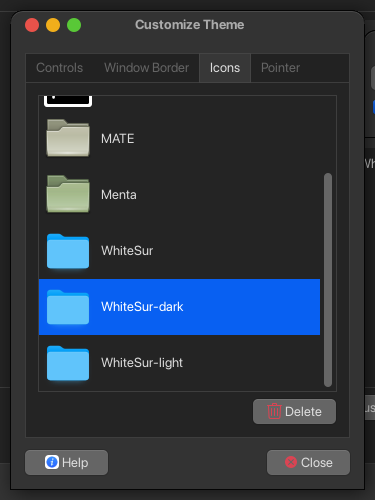
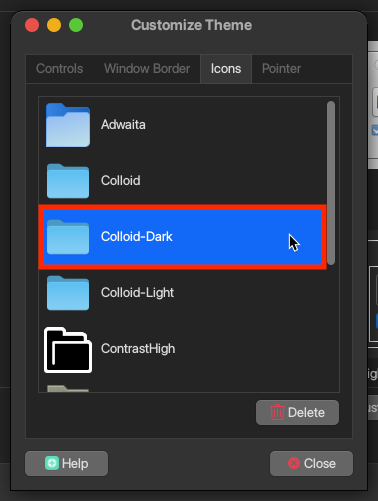
New

diff --git a/public/blog/2025/mate-on-freebsd-macos-like-setup-guide-font-rendering-ui-tweaks-and-settings/index.html b/public/blog/2025/mate-on-freebsd-macos-like-setup-guide-font-rendering-ui-tweaks-and-settings/index.html
@@ -96,6 +96,8 @@
 </video> 
 <p>Replaced MATE’s UI fonts to <a href="https://github.com/sahibjotsaggu/San-Francisco-Pro-Fonts">SF Pro Display</a>. Put <strong>SF Pro Display, Regular</strong> and <strong>SF Pro Display, Bold</strong> to ~/.fonts folder and set it up in MATE&rsquo;s settings. Add <a href="https://github.com/supercomputra/SF-Mono-Font">SF Mono</a>, for Fixed width fonts too:</p>
 <p><img src="./mate-ui-font-to-match-macos-on-freebsd.png" alt=""></p>
+<p>If you&rsquo;re using dark appearance, set semibold version of SF Pro Display, becase in <a href="https://mastodon.social/@alex_deplov/114573131846455250" target="_blank">macOS Apple uses bolder fonts for dark appearances</a>:</p>
+<p><img src="./mate-ui-font-to-match-macos-on-freebsd-dark.png" alt=""></p>
 <p>Font <a href="https://freetype.org/freetype2/docs/reference/ft2-properties.html#no-stem-darkening">rendering</a> needs to be tweaked. In ~/.profile add:</p>
 <div class="highlight"><pre tabindex="0" style="color:#abb2bf;background-color:#282c34;-moz-tab-size:4;-o-tab-size:4;tab-size:4;"><code class="language-sh" data-lang="sh"><span style="display:flex;"><span><span style="color:#e5c07b">export</span> <span style="color:#e06c75">FREETYPE_PROPERTIES</span><span style="color:#56b6c2">=</span><span style="color:#98c379">&#34;cff:no-stem-darkening=0.0 autofitter:no-stem-darkening=0.0&#34;</span>
 </span></span></code></pre></div><p>Set Smoothing to <strong>Grayscale</strong> and <strong>Hinting to None</strong> (I also set font size to be 10 and DPI to 95):</p>
@@ -105,6 +107,8 @@
 <p><a href="./macos-vs-mate-on-freebsd-fonts-to-compare-2.jpg"><img src="./macos-vs-mate-on-freebsd-fonts-to-compare-2.jpg" alt=""></a></p>
 <p>In the Appearance settings hide icons from menu and buttons:</p>
 <p><img src="./mate-interface-settings-freebsd.png" alt=""></p>
+<p>Optional change Firefox fonts in the settings, for Serifs use <a href="https://github.com/yell0wsuit/New-York-fonts" target="_blank">Apple&rsquo;s New York Medium font</a>:</p>
+<p><img src="./freebsd-desktop-to-match-macos-firefox-fonts.png" alt=""></p>
 <hr>
 <h2 id="keyboard_and_mouse">Change Keyboard Shortcuts</h2>
 <p><img src="./mate-keyboard-shortcuts-freebsd-1.png" alt="">
@@ -130,7 +134,7 @@
 </span></span></code></pre></div><hr>
 <h2 id="tearing">Turn on TearFree</h2>
 <p>Check to see if it supports it. It should show &ldquo;TearFree&rdquo;: &ldquo;auto, on, off:</p>
-<div class="highlight"><pre tabindex="0" style="color:#abb2bf;background-color:#282c34;-moz-tab-size:4;-o-tab-size:4;tab-size:4;"><code class="language-sh" data-lang="sh"><span style="display:flex;"><span>xrandr —props
+<div class="highlight"><pre tabindex="0" style="color:#abb2bf;background-color:#282c34;-moz-tab-size:4;-o-tab-size:4;tab-size:4;"><code class="language-sh" data-lang="sh"><span style="display:flex;"><span>xrandr --props
 </span></span></code></pre></div><p>In /usr/local/etc/X11/xorg.conf.d/10-amdgpu.conf:</p>
 <div class="highlight"><pre tabindex="0" style="color:#abb2bf;background-color:#282c34;-moz-tab-size:4;-o-tab-size:4;tab-size:4;"><code class="language-sh" data-lang="sh"><span style="display:flex;"><span>Section <span style="color:#98c379">&#34;OutputClass&#34;</span>
 </span></span><span style="display:flex;"><span>    Identifier <span style="color:#98c379">&#34;AMDgpu&#34;</span>
@@ -139,20 +143,19 @@
 </span></span><span style="display:flex;"><span>    Option <span style="color:#98c379">&#34;TearFree&#34;</span> <span style="color:#98c379">&#34;true&#34;</span>
 </span></span><span style="display:flex;"><span>EndSection
 </span></span></code></pre></div><p>Then, use this command again to see if TearFree is enabled. It should show TearFree: On:</p>
-<div class="highlight"><pre tabindex="0" style="color:#abb2bf;background-color:#282c34;-moz-tab-size:4;-o-tab-size:4;tab-size:4;"><code class="language-sh" data-lang="sh"><span style="display:flex;"><span>xrandr —props
+<div class="highlight"><pre tabindex="0" style="color:#abb2bf;background-color:#282c34;-moz-tab-size:4;-o-tab-size:4;tab-size:4;"><code class="language-sh" data-lang="sh"><span style="display:flex;"><span>xrandr --props
 </span></span></code></pre></div><hr>
 <h2 id="wallpapers">Wallpapers</h2>
 <p>My favorite wallpapers are from <a href="https://512pixels.net/projects/default-mac-wallpapers-in-5k/">macOS Sequoia and macOS Ventura</a>.</p>
 <p><a href="https://512pixels.net/projects/default-mac-wallpapers-in-5k/"><img src="./freebsd-desktop-macos-wallpapers-in-mate.png" alt=""></a></p>
 <hr>
 <h2 id="mate_theme">MATE’s Theme & Icons & Cursors</h2>
-<p>Download <a href="https://www.pling.com/p/1403328/" target="_blank">WhiteSur-Dark.tar.xz</a> file and unpack it in the ~/.themes, then select in Appearance Preferences:</p>
+<p>Download <a href="https://www.mate-look.org/p/1403328" target="_blank">WhiteSur-Dark.tar.xz</a> file and unpack it in the ~/.themes, then select in Appearance Preferences:</p>
 <p><img src="./freebsd-desktop-to-match-macos-mate-theme.png" alt=""></p>
-<p>Download the <a href="https://www.pling.com/p/1355701/" target="_blank">01-WhiteSur.tar.xz</a> file and unpack it in the ~/.icons folder. Important note: Rename the unpacked folder to <strong>WhiteSur-Dark</strong> with a capital &ldquo;D&rdquo; for &ldquo;Dark.&rdquo; Otherwise, the WhiteSur-Dark theme will not recognize it.</p>
+<p>Download icons <a href="https://www.opendesktop.org/p/1661983/" target="_blank">Colloid-Dark</a> file and unpack it in the ~/.icons folder:</p>
 <p><img src="./freebsd-desktop-to-match-macos-mate-theme-icons.png" alt=""></p>
-<p>Unpack <a href="https://www.pling.com/p/1355701/" target="_blank">cursors</a> to the ~/.icons.</p>
-<h2 id="dock">Dock</h2>
-<p>Will be added soon.</p>
+<p>Unpack cursors <a href="https://www.pling.com/p/1408466" target="_blank">macOS.tar.xz</a> to the ~/.icons:</p>
+<p><img src="./freebsd-desktop-to-match-macos-mate-theme-cursors.png" alt=""></p>
 <hr>
 <h2 id="file-manager">File Manager</h2>
 <p>I changed the default file manager from Caja to <a href="https://www.freshports.org/x11-fm/thunar/" target="_blank">Thunar</a> because Thunar is visually cleaner and allows you to right-click on categories in the sidebar to change them.</p>
@@ -163,9 +166,12 @@
 </video> 
 <p>Set Thunar in Mate Settings &gt; Prefrered Applications &gt; System &gt; File Manager:</p>
 <p><img src="./mate-thunar-file-manager.png" alt=""></p>
+<p>Change Thunar shortcuts to macOS-like:</p>
+<p><img src="./thunar-macos-shortcuts-on-freebsd.png" alt=""></p>
 <hr>
-<h2 id="dock-1">Dock</h2>
-<p>I&rsquo;m using <a href="https://www.freshports.org/x11/plank/" target="_blank">x11/plank</a> with GTK+ theme:</p>
+<h2 id="dock">Dock</h2>
+<div class="highlight"><pre tabindex="0" style="color:#abb2bf;background-color:#282c34;-moz-tab-size:4;-o-tab-size:4;tab-size:4;"><code class="language-sh" data-lang="sh"><span style="display:flex;"><span>pkg install -y plank 
+</span></span></code></pre></div><p>I&rsquo;m using <a href="https://www.freshports.org/x11/plank/" target="_blank">x11/plank</a> with GTK+ theme:</p>
 <p><a href="./plank-freebsd-dock-1.png"><img src="./plank-freebsd-dock-1.png" alt=""></a>
 <a href="./plank-freebsd-dock-2.png"><img src="./plank-freebsd-dock-2.png" alt=""></a>
 <a href="./plank-freebsd-dock-3.png"><img src="./plank-freebsd-dock-3.png" alt=""></a></p>

diff --git a/content/blog/2025/mate-on-freebsd-macos-like-setup-guide-font-rendering-ui-tweaks-and-settings.md b/content/blog/2025/mate-on-freebsd-macos-like-setup-guide-font-rendering-ui-tweaks-and-settings.md
@@ -51,6 +51,11 @@ Replaced MATE’s UI fonts to <a href="https://github.com/sahibjotsaggu/San-Fran
 
 ![](./mate-ui-font-to-match-macos-on-freebsd.png)
 
+If you're using dark appearance, set semibold version of SF Pro Display, becase in <a href="https://mastodon.social/@alex_deplov/114573131846455250" target="_blank">macOS Apple uses bolder fonts for dark appearances</a>: 
+
+![](./mate-ui-font-to-match-macos-on-freebsd-dark.png)
+
+
 Font <a href="https://freetype.org/freetype2/docs/reference/ft2-properties.html#no-stem-darkening">rendering</a> needs to be tweaked. In ~/.profile add:
 
 ```sh
@@ -70,6 +75,10 @@ Fonts in macOS (left) vs. MATE (right). You may notice that fonts in macOS appea
 In the Appearance settings hide icons from menu and buttons:
 
 ![](./mate-interface-settings-freebsd.png)
+
+Optional change Firefox fonts in the settings, for Serifs use <a href="https://github.com/yell0wsuit/New-York-fonts" target="_blank">Apple's New York Medium font</a>:
+
+![](./freebsd-desktop-to-match-macos-firefox-fonts.png)
 
 
 ---
@@ -121,7 +130,7 @@ kld_list="amdgpu"
 Check to see if it supports it. It should show "TearFree": "auto, on, off:
 
 ```sh
-xrandr —props
+xrandr --props
 ```
 
 In /usr/local/etc/X11/xorg.conf.d/10-amdgpu.conf:
@@ -138,7 +147,7 @@ EndSection
 Then, use this command again to see if TearFree is enabled. It should show TearFree: On:
 
 ```sh
-xrandr —props
+xrandr --props
 ```
 
 
@@ -156,19 +165,17 @@ My favorite wallpapers are from <a href="https://512pixels.net/projects/default-
 
 <h2 id="mate_theme">MATE’s Theme & Icons & Cursors</h2>
 
-Download <a href="https://www.pling.com/p/1403328/" target="_blank">WhiteSur-Dark.tar.xz</a> file and unpack it in the ~/.themes, then select in Appearance Preferences:
+Download <a href="https://www.mate-look.org/p/1403328" target="_blank">WhiteSur-Dark.tar.xz</a> file and unpack it in the ~/.themes, then select in Appearance Preferences:
 
 ![](./freebsd-desktop-to-match-macos-mate-theme.png)
 
-Download the <a href="https://www.pling.com/p/1355701/" target="_blank">01-WhiteSur.tar.xz</a> file and unpack it in the ~/.icons folder. Important note: Rename the unpacked folder to **WhiteSur-Dark** with a capital "D" for "Dark." Otherwise, the WhiteSur-Dark theme will not recognize it.
+Download icons <a href="https://www.opendesktop.org/p/1661983/" target="_blank">Colloid-Dark</a> file and unpack it in the ~/.icons folder:
 
 ![](./freebsd-desktop-to-match-macos-mate-theme-icons.png)
 
-Unpack <a href="https://www.pling.com/p/1355701/" target="_blank">cursors</a> to the ~/.icons.
+Unpack cursors <a href="https://www.pling.com/p/1408466" target="_blank">macOS.tar.xz</a> to the ~/.icons:
 
-## Dock
-
-Will be added soon.
+![](./freebsd-desktop-to-match-macos-mate-theme-cursors.png)
 
 
 ---
@@ -188,9 +195,17 @@ Set Thunar in Mate Settings > Prefrered Applications > System > File Manager:
 
 ![](./mate-thunar-file-manager.png)
 
+Change Thunar shortcuts to macOS-like:
+
+![](./thunar-macos-shortcuts-on-freebsd.png)
+
 ---
 
 ## Dock
+
+```sh
+pkg install -y plank 
+```
 
 I'm using <a href="https://www.freshports.org/x11/plank/" target="_blank">x11/plank</a> with GTK+ theme:
 
